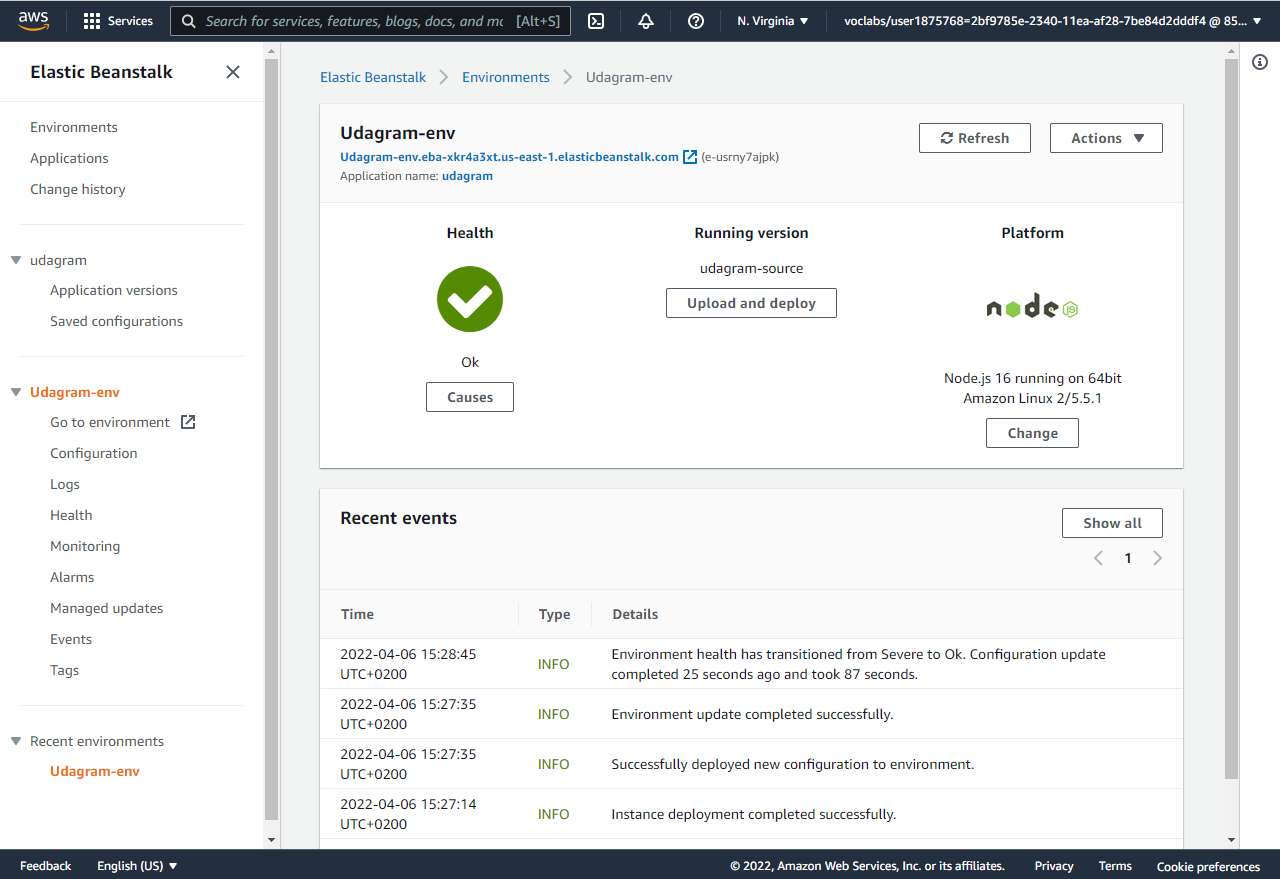
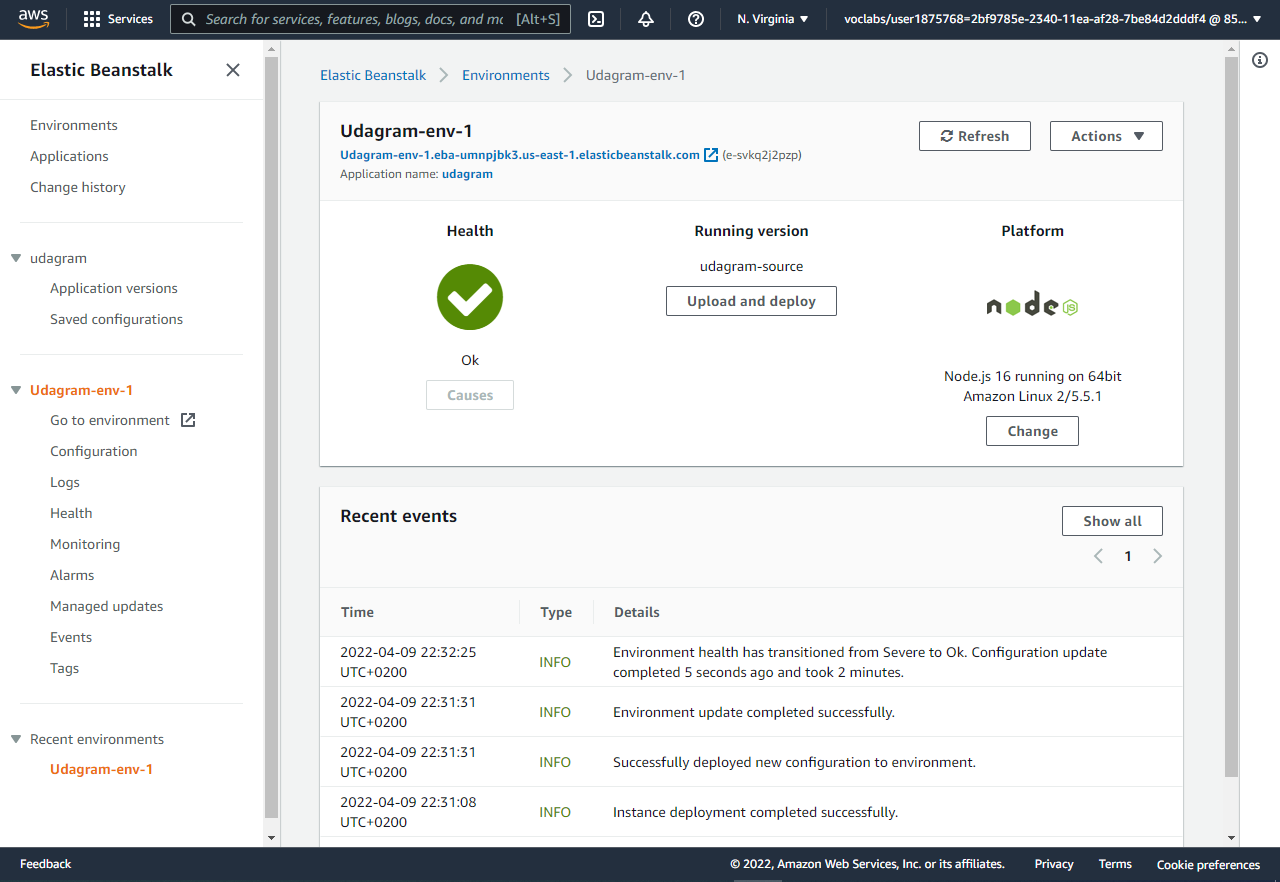
Change docs

diff --git a/docs/infrastructure.md b/docs/infrastructure.md
@@ -10,11 +10,11 @@ The application server uses AWS RDS Postgres as database for storing and retriev
 ### Elastic Beanstalk
 The application server is deployed on AWS Elastic Beanstalk service.
 
-[EB link](http://udagram-env.eba-xkr4a3xt.us-east-1.elasticbeanstalk.com/)
+[EB link](http://udagram-env-1.eba-umnpjbk3.us-east-1.elasticbeanstalk.com/)
 
 ### S3 Bucket
 The frontend application is deployed using AWS S3 Bucket.
 
-[Bucket link](http://myudagram.s3-website-us-east-1.amazonaws.com/)
+[Bucket link](http://myudagram.s3-website-us-east-1.amazonaws.com)
 
 Users can access the application from the Bucket URL.
